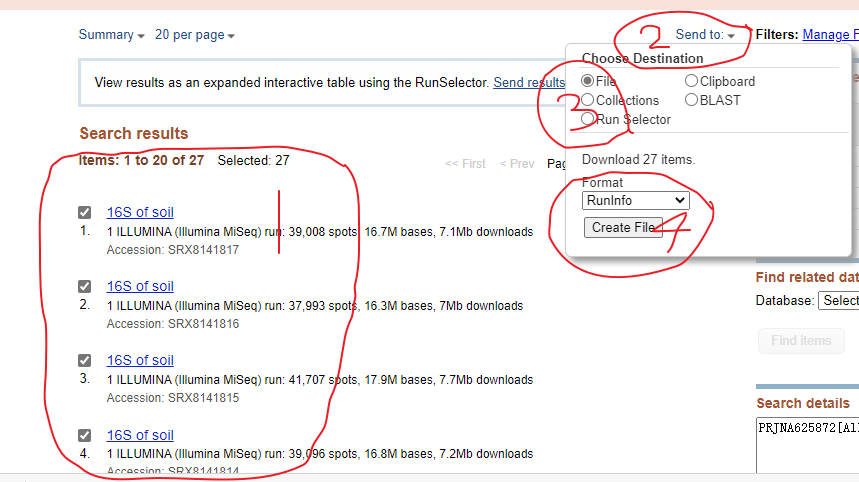
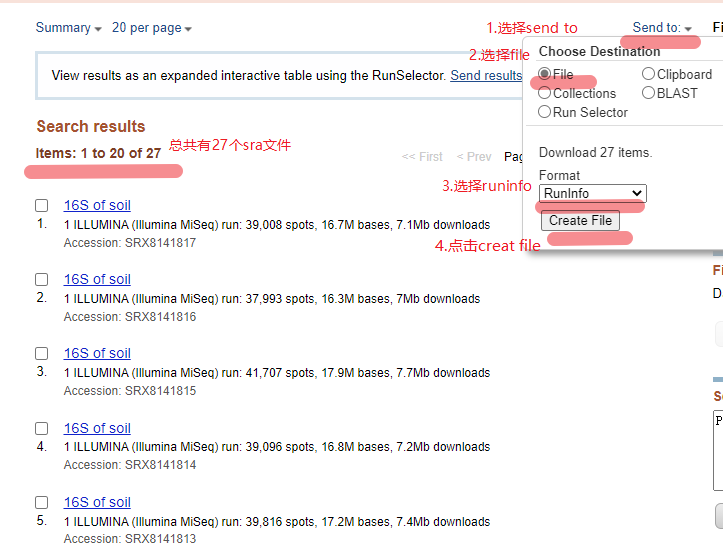
16S

diff --git a/16S rRNA.md b/16S rRNA.md
@@ -254,21 +254,9 @@ qiime --help
 
   ![Image text](https://github.com/syq12345678/16S-rRNA/blob/master/picture/8.%20Diversity%20analysis%20workflow.png)
 
-# 4.参考数据下载
+# 4.数据分析
 
-4.1参考数据
-
-- 这里的参考数据主要来自于文献Comparative Analysis of Soil Microbiome Profiles in the Companion Planting of White Clover and Orchard Grass Using 16S rRNA Gene Sequencing Data
-
-- 文献末尾有测序数据来源，打开链接可以看到数据在ncbi网站上
-
-  
-
-  
-
-# 5.数据分析
-
-## 5.1启动qiime2运行环境
+## 4.1启动qiime2运行环境
 
 ```
 # 进入QIIME2 conda工作环境 
@@ -278,6 +266,38 @@ conda activate qiime2-2020.11
 mkdir qiime2
 cd qiime2
 ```
+
+## 4.2数据下载
+
+### 4.2.1参考数据
+
+- 在qiime官方文档https://docs.qiime2.org/2020.11/中可以看到可供下载的16s数据库有greengene和Silva。并且两种数据库都有基于全长和基于可变区进行训练的分类器，通常选择基于全长进行训练,因为即使测的可变区对用全长训练也没有较大影响。
+
+- Greengene数据库（官网：http://greengenes.secondgenome.com/）是针对细菌和古菌16S rRNA基因的数据库。由于是人工整理，比较准确。很多科研工作者选择使用该数据库。分类层级采用常用的七级：界门纲目科属种，方便理解和阅读。同时，QIIME软件默认物种注释数据库也是它。
+
+- Silva数据库（官网：https://www.arb-silva.de/）是一个包含三域微生物（细菌，古菌，真核）rRNA基因序列的综合数据库。其数据库涵盖了原核和真核微生物的小亚基rRNA基因序列（简称SSU，即16S和18SrRNA）和大亚基rRNA基因序列（简称LSU，即23S和28SrRNA），更新频繁。由于是最大最全的数据库，其缺点是假阳性会更高。另一方面，它的物种注释采用的是14层级，且与常用的七级不同，不能转化和比较。
+
+- 通过阅读本例的参考文献Comparative Analysis of Soil Microbiome Profiles in the Companion Planting of White Clover and Orchard Grass Using 16S rRNA Gene Sequencing Data得知，本次测试的数据主要是相同条件下White clover单独种植，Orchard Grass单独种植和两者共同种植的三组不同的微生物组。因此选用greengene数据库。（注：如果涉及到测血液中的微生物选用silva数据库）
+
+  ```
+  # 下载物种注释数据库制作的greengene分类器
+  wget \   
+  -O "gg-13-8-99-nb-classifier.qza" \   
+  "https://data.qiime2.org/2020.2/common/gg-13-8-99-nb-classifier.qza"
+  ```
+
+### 4.2.2实验数据
+
+- 这里的实验数据主要来自于文献Comparative Analysis of Soil Microbiome Profiles in the Companion Planting of White Clover and Orchard Grass Using 16S rRNA Gene Sequencing Data
+- 文献末尾有实验测序数据来源链接，打开链接https://www.ncbi.nlm.nih.gov/sra/PRJNA625872可以看到数据在ncbi网站上并且共有27个sra数据 。按照图中的步骤，点击右上方的send to,在弹出来的窗口中选择file和runinfo,最后点击creat file，得到一个名为“SraRunInfo.csv”的文件。可以看到该文件第一列是测序数据的序列号，第十列是测序数据的下载地址。
+
+
+
+
+
+
+
+
 
 ## 5.2数据导入 Importing data
 
